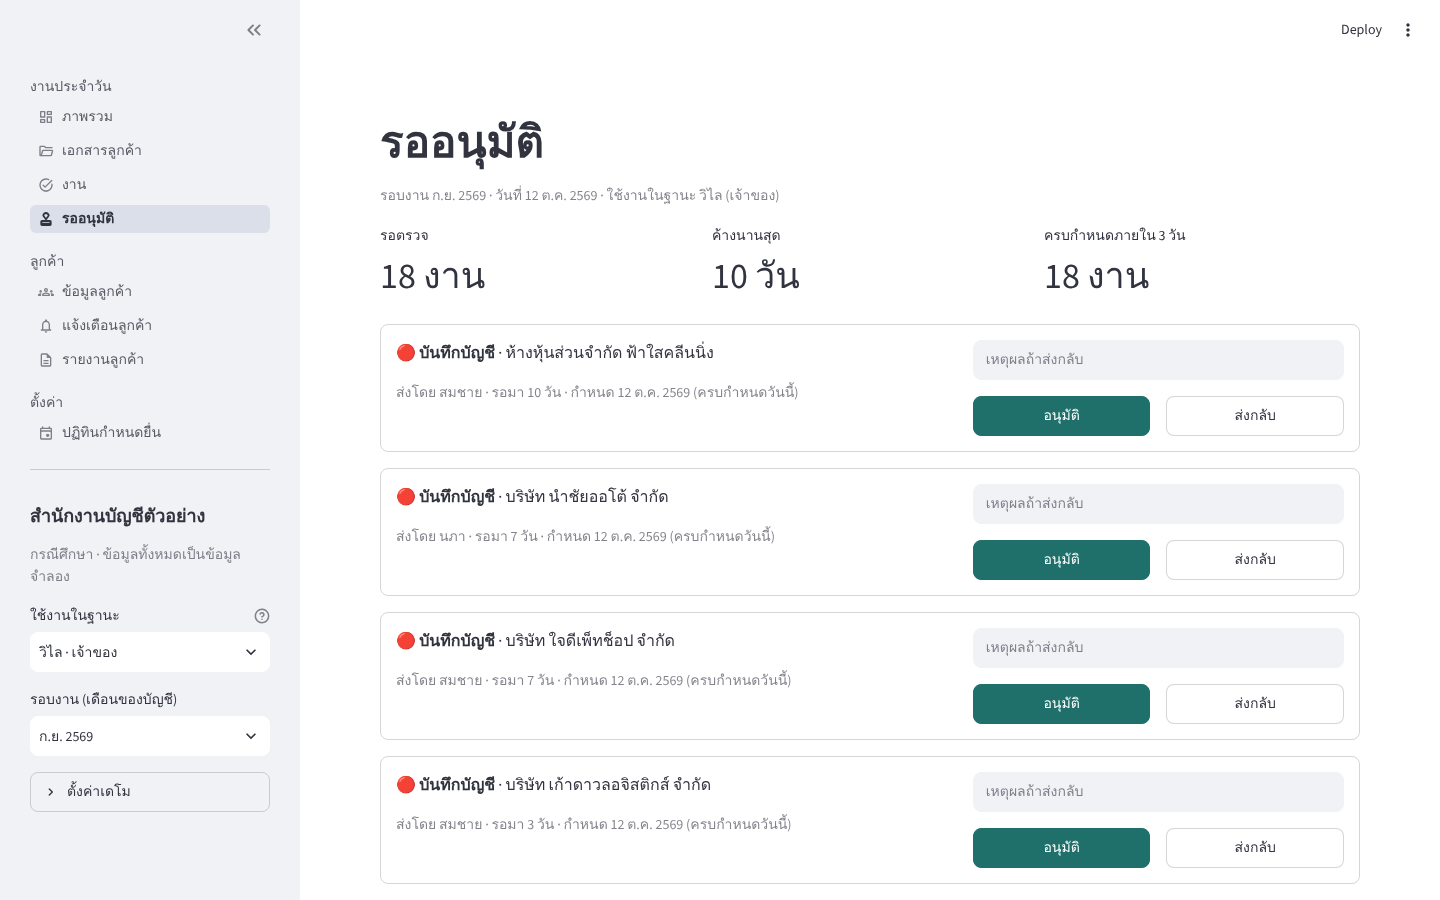
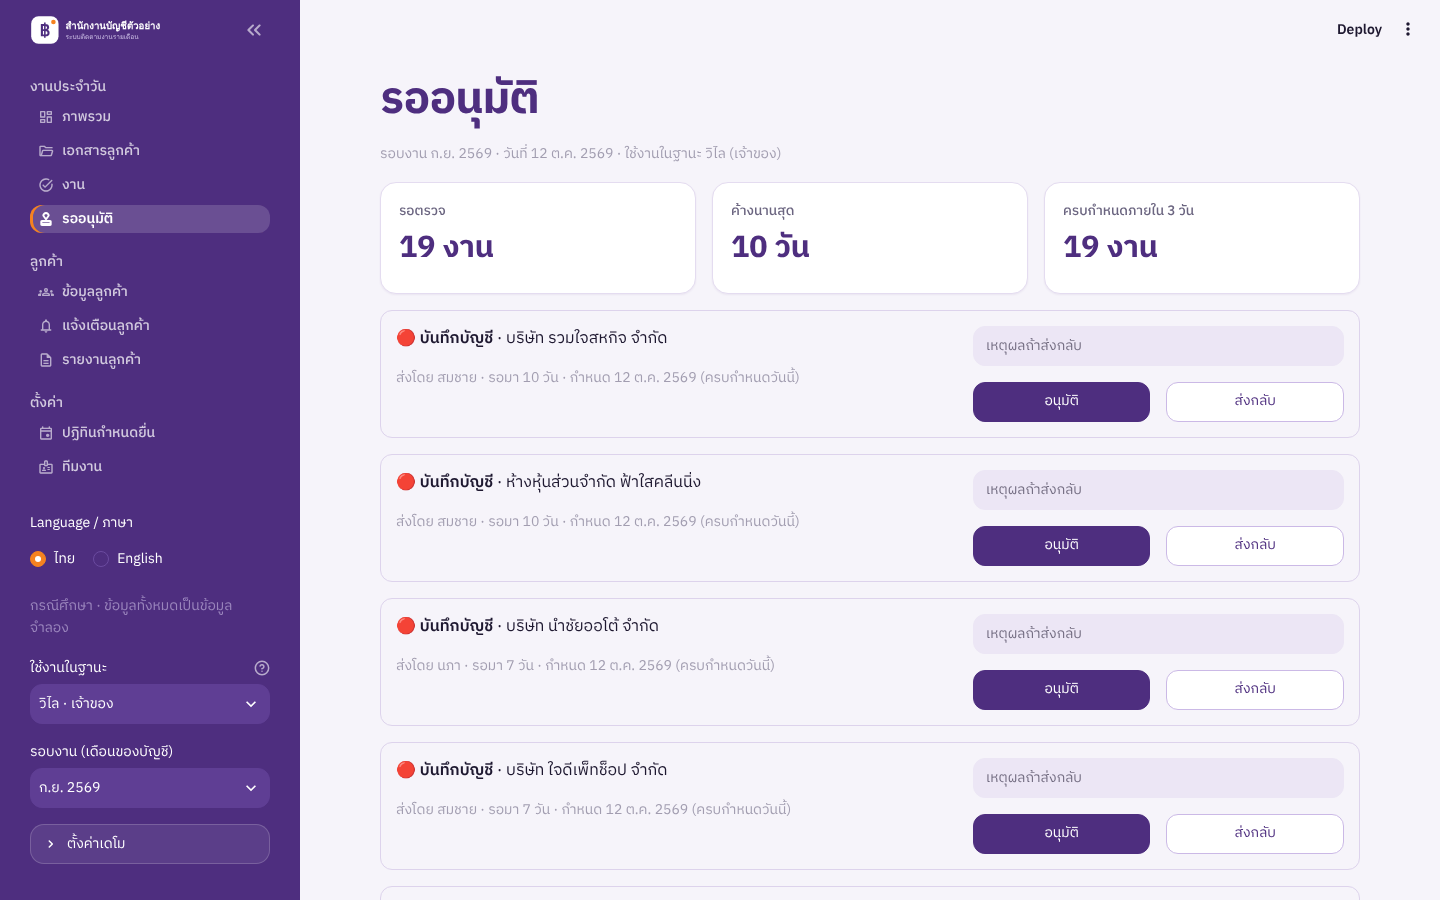
Refresh screenshots with the current purple theme and show the documents page

diff --git a/README.md b/README.md
@@ -39,6 +39,8 @@
 
 **นอกขอบเขต:** การคีย์บัญชีอัตโนมัติ (OCR) และพอร์ทัลให้ลูกค้าล็อกอินเข้ามาดูเอง
 
+![เอกสารลูกค้า](docs/documents.png)
+
 ## ขั้นตอนงานในระบบ
 
 ```
